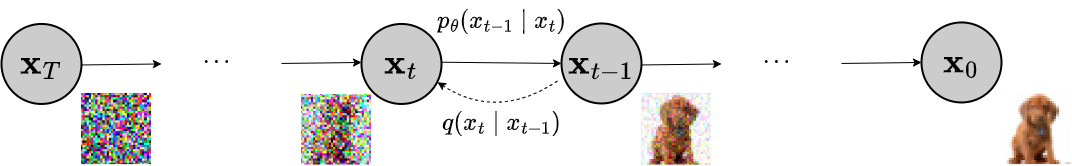
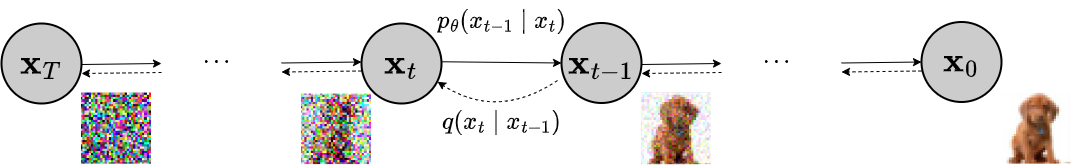
update markov chain diagram

diff --git a/_posts/2022-09-28-diffusion-models.md b/_posts/2022-09-28-diffusion-models.md
@@ -14,7 +14,7 @@ authors:
      url: "https://gabrielraya.com/"
 
 bibliography: 2018-12-22-distill.bib
-
+comments: true
 # Below is an example of injecting additional post-specific styles.
 # If you use this post as a template, delete this _styles block.
 
@@ -48,13 +48,15 @@ If you are reading this post, then you may have heard that diffusion models are 
 </div>
 
 <p align="justify">
-However, grasping diffusion models may seem initially daunting, and you may easily get confused by terms such as denoising diffusion models and score-based generative models. Therefore, this blog post aims to provide a big picture of diffusion models, whether you prefer to call them diffusion models, denoising diffusion models, or score-based diffusion models. All of them have the same roots, the diffusion process, so I will refer to them as Diffusion models and make it explicit when a singular idea comes from a particular approach.
+However, grasping diffusion models may seem initially daunting, and you may easily get confused by terms such as denoising diffusion and score-based generative models. Therefore, this blog post aims to provide a big picture of diffusion models, whether you prefer to call them diffusion, denoising diffusion or score-based diffusion models. All of them have the same roots, the diffusion process, so I will refer to them as Diffusion models and make it explicit when a singular idea comes from a particular approach.
 </p>
 
 
 For more in-depth information, I will always suggest reading the original papers:
 
-- [Deep Unsupervised Learning using Nonequilibrium Thermodynamics](https://arxiv.org/abs/1503.03585)
+- [Deep Unsupervised Learning using Nonequilibrium Thermodynamics, 2015](https://arxiv.org/abs/1503.03585).
+- [Denoising Diffusion Probabilistic Models, 2020](https://arxiv.org/abs/2006.11239)
+
 
 I also recommend reading the following blog post, from which some information I have added here to provide a complete picture.  
 
@@ -93,7 +95,7 @@ Lets assume that our dataset consists of $N$ i.i.d inputs $$\{\mathbf{x}_0^n\}_{
 #### Forward trajectory
 
 <p align="justify">
- The forward diffusion process will systematically perturbed the input data $\mathbf{x}_0$ using a perturbation kernel $q(\mathbf{x}_t \vert \mathbf{x}_{t-1})$ over time $t\in[0,T]$, gradually converting $q_0(\mathbf{x}_0)$ into a simple known distribution $q_T$ (e.g. a Gaussian) distribution. For example, the input $\mathbf{x}_0$, in figure 1 (going from right to left)gradually loses its distinguishable features as the step $t$ becomes larger. Eventually when $T \to \infty$, $\mathbf{x}_T$ is equivalent to an isotropic Gaussian distribution. Figure 1 shows with dotted line a forward diffusion step.  This <b>forward trajectory</b> or <b>forward diffusion process</b> is represented by a Markov chain.  The stationary distribution is choose by desing and so the forward process does not have learnable parameters. For example, Sohl-Dickstein et. al. <d-cite key="sohl2015deep"></d-cite> proposed the following perturbation kernel such that the stationary distribution is Isotropic Gaussian.
+ The forward diffusion process will systematically perturbed the input data $\mathbf{x}_0$ using a perturbation kernel $q(\mathbf{x}_t \vert \mathbf{x}_{t-1})$ over time $t\in[0,T]$, gradually converting $q_0(\mathbf{x}_0)$ into a simple known distribution $q_T$ (e.g. a Gaussian) distribution. For example, a input $\mathbf{x}_0$, like the one shown in figure 1 (going from right to left), gradually loses its distinguishable features as the step $t$ becomes larger. Eventually when $T \to \infty$, $\mathbf{x}_T$ is equivalent to an isotropic Gaussian distribution. Figure 1 shows with dotted line a forward diffusion step.  This <b>forward trajectory</b> or <b>forward diffusion process</b> is represented by a Markov chain.  The stationary distribution is choose by desing and so the forward process does not have learnable parameters. For example, Sohl-Dickstein et. al. <d-cite key="sohl2015deep"></d-cite> proposed the following perturbation kernel such that the stationary distribution is Isotropic Gaussian.
 </p>
 
 
@@ -104,9 +106,7 @@ $$
 
 <p align="justify">
 where $\beta_t$ is the variance schedule, a sequence of positive noise scales such that $0 < \beta_1, \beta_2, ..., \beta_T < 1$.
-The data sample $\mathbf{x}_0$
-
-<a id="nice"></a>A nice property of the above process is that we can sample $\mathbf{x}_t$ at any arbitrary time step $t$ in a closed form using <a href="https://lilianweng.github.io/posts/2018-08-12-vae/#reparameterization-trick">reparameterization trick</a>. Let $\alpha_t = 1 - \beta_t$ and $\bar{\alpha}_t = \prod_{i=1}^t \alpha_i$, and now $q(\mathbf{x}_t \vert \mathbf{x}_{t-1}) = \mathcal{N}(\mathbf{x}_t; \sqrt{\alpha_t} \mathbf{x}_{t-1}, 1-\alpha_t\mathbf{I})$
+A nice property of the above process is that we can sample $\mathbf{x}_t$ at any arbitrary time step $t$ in a closed form using <a href="https://lilianweng.github.io/posts/2018-08-12-vae/#reparameterization-trick">reparameterization trick</a>. Let $\alpha_t = 1 - \beta_t$ and $\bar{\alpha}_t = \prod_{i=1}^t \alpha_i$, and now $q(\mathbf{x}_t \vert \mathbf{x}_{t-1}) = \mathcal{N}(\mathbf{x}_t; \sqrt{\alpha_t} \mathbf{x}_{t-1}, 1-\alpha_t\mathbf{I})$
 </p>
 
 <div>
@@ -118,7 +118,7 @@ $$
 &= \sqrt{\alpha_2\alpha_1}\mathbf{x}_{0} + \sqrt{\alpha_2(1 - \alpha_1)}\mathbf{z}_{0} + \sqrt{1 - \alpha_2}\mathbf{z}_{1}\\
 &= \sqrt{\alpha_2\alpha_1}\mathbf{x}_{0} + \sqrt{1 - \alpha_1\alpha_2}\bar{\mathbf{z}}_{1} & \text{ ;where } \bar{\mathbf{z}}_{1} \text{ merges two Gaussians (*).} \\
 &= \dots \\
-&= \sqrt{\bar{\alpha}_t}\mathbf{x}_0 + \sqrt{1 - \bar{\alpha}_t}\mathbf{z} \\
+x_t &= \sqrt{\bar{\alpha}_t}\mathbf{x}_0 + \sqrt{1 - \bar{\alpha}_t}\mathbf{z} \\
 q(\mathbf{x}_t \vert \mathbf{x}_0) &= \mathcal{N}(\mathbf{x}_t; \sqrt{\bar{\alpha}_t} \mathbf{x}_0, (1 - \bar{\alpha}_t)\mathbf{I})
 \end{aligned}
 $$
@@ -130,5 +130,13 @@ $$
  </p>
 
 
+ $$
+ q(\mathbf{x}_t \vert \mathbf{x}_{t-1}) = \mathcal{N}(\mathbf{x}_t; \sqrt{1 - \beta_t} \mathbf{x}_{t-1}, \beta_t\mathbf{I}) \quad
+ q(\mathbf{x}_{1:T} \vert \mathbf{x}_0) = \prod^T_{t=1} q(\mathbf{x}_t \vert \mathbf{x}_{t-1})
+ $$
+
 #### Reverse trajectory
  Then a generative Markov chain converts $q_T$, the simple distribution, into a target (data) distribution using a diffusion process. Figure 1 shows how the generative Markov chain is used to generated samples like the training distribution starting from $ x_T \sim p(x_T)$
+
+
+### Continuous Diffusion Models
